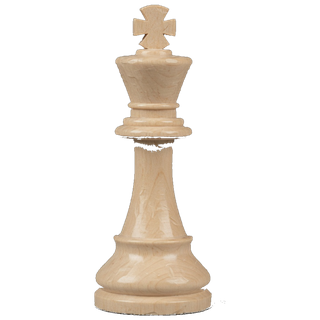
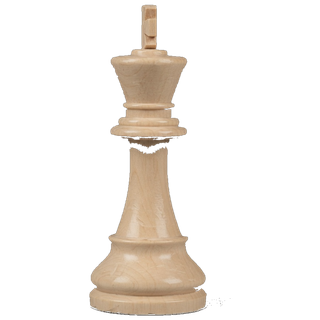
Lighten dark squares to grey marble and show pieces in side profile
Replace the walnut squares and frame with dove-grey marble, and reshoot pieces so knights, kings and bishops read as a right-facing side view.

Changed region(s): [[0.2812, 0.0, 0.6875, 1.0], [0.3125, 0.9688, 0.4375, 1.0], [0.375, 0.8438, 0.4375, 0.9062]]

diff --git a/public/style.css b/public/style.css
@@ -5,12 +5,12 @@
   --ink: #142018;
   --muted: #5b6b60;
   --light: #eee8d5;
-  --dark: #5a3a22;
+  --dark: #8a8f94;
   --sel: #f6c945;
   --last: rgba(232, 176, 60, 0.42);
-  --legal: rgba(20, 28, 18, 0.38);
+  --legal: rgba(40, 44, 48, 0.38);
   --wa: #25d366;
-  --frame: #4a2c16;
+  --frame: #6d7278;
 }
 
 * { box-sizing: border-box; }
@@ -54,15 +54,15 @@ html, body {
 .board-wrap {
   user-select: none;
   background-color: var(--frame);
-  background-image: url("textures/walnut.jpg");
+  background-image: url("textures/grey-marble.jpg");
   background-size: cover;
   background-position: center;
   padding: 0.2rem 0.15rem 0.35rem;
   border-radius: 0.7rem;
   box-shadow:
-    0 14px 32px rgba(40, 22, 8, 0.38),
+    0 14px 32px rgba(40, 44, 48, 0.32),
     inset 0 0 0 2px #c9a36a,
-    inset 0 0 0 4px #5a3418;
+    inset 0 0 0 4px #5c6166;
 }
 .board-row { display: flex; align-items: stretch; }
 .board {
@@ -95,7 +95,7 @@ html, body {
 .sq.light { background: transparent; }
 .sq.dark {
   background-color: var(--dark);
-  background-image: url("textures/walnut.jpg");
+  background-image: url("textures/grey-marble.jpg");
   background-size: 400% 400%;
 }
 .sq.selected { box-shadow: inset 0 0 0 3px var(--sel); z-index: 1; }
@@ -139,10 +139,10 @@ html, body {
 }
 .files, .ranks {
   display: flex;
-  color: #f3e6c8;
+  color: #2c3238;
   font-size: 0.7rem;
   font-weight: 700;
-  text-shadow: 0 1px 1px rgba(20, 10, 0, 0.55);
+  text-shadow: 0 1px 0 rgba(255, 255, 255, 0.45);
 }
 .files { justify-content: space-around; padding: 0.2rem 1.1rem; }
 .ranks {

diff --git a/scripts/extract-pieces.py b/scripts/extract-pieces.py
@@ -15,18 +15,18 @@ PIECES_OUT = ROOT / "public" / "pieces-carved"
 TEX_OUT = ROOT / "public" / "textures"
 
 MAP = {
-    "wK": "1.jpg",
-    "bK": "2.jpg",
-    "wR": "5.jpg",
+    "wK": "19.jpg",
+    "bK": "21.jpg",
+    "wR": "23.jpg",
     "wN": "6.jpg",
-    "wP": "7.jpg",
-    "wQ": "8.jpg",
-    "wB": "9.jpg",
-    "bN": "11.jpg",
-    "bB": "12.jpg",
-    "bP": "13.jpg",
-    "bR": "14.jpg",
-    "bQ": "15.jpg",
+    "wP": "27.jpg",
+    "wQ": "17.jpg",
+    "wB": "20.jpg",
+    "bN": "24.jpg",
+    "bB": "22.jpg",
+    "bP": "26.jpg",
+    "bR": "25.jpg",
+    "bQ": "18.jpg",
 }
 
 
@@ -136,13 +136,13 @@ def save_textures() -> None:
     TEX_OUT.mkdir(parents=True, exist_ok=True)
     marble = Image.open(SRC / "4.jpg").convert("RGB").resize((768, 768), Image.Resampling.LANCZOS)
     marble.save(TEX_OUT / "marble.jpg", quality=88, optimize=True)
-    walnut = Image.open(SRC / "10.jpg").convert("RGB").resize((768, 768), Image.Resampling.LANCZOS)
-    walnut.save(TEX_OUT / "walnut.jpg", quality=88, optimize=True)
+    grey = Image.open(SRC / "16.jpg").convert("RGB").resize((768, 768), Image.Resampling.LANCZOS)
+    grey.save(TEX_OUT / "grey-marble.jpg", quality=88, optimize=True)
 
 
 def main() -> None:
     save_textures()
-    print("textures", TEX_OUT / "marble.jpg", TEX_OUT / "walnut.jpg")
+    print("textures", TEX_OUT / "marble.jpg", TEX_OUT / "grey-marble.jpg")
     PIECES_OUT.mkdir(parents=True, exist_ok=True)
     for name, src in MAP.items():
         path = SRC / src
